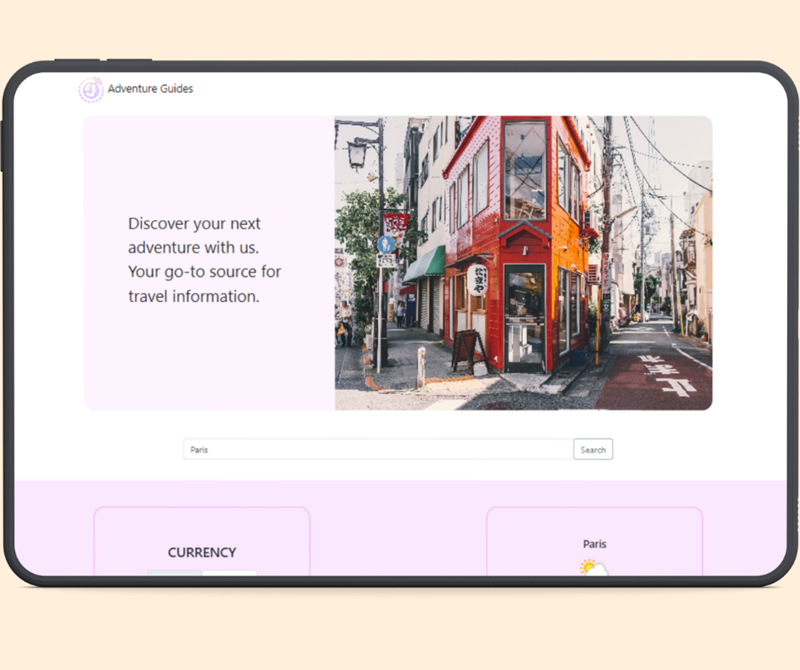
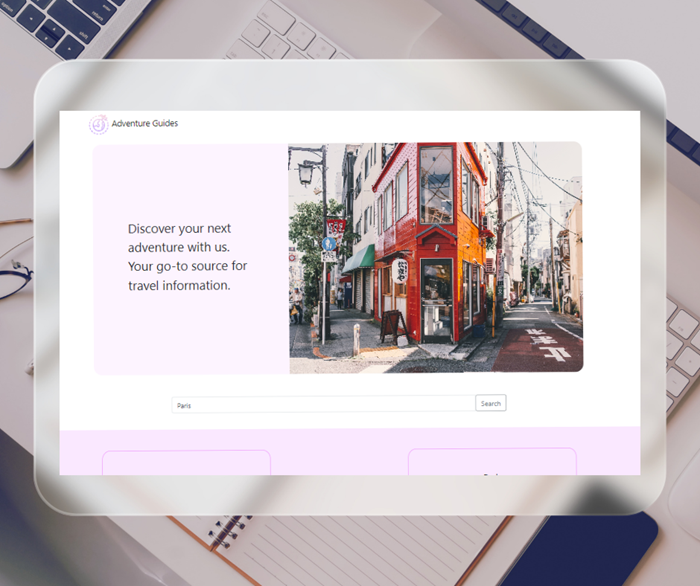
update third project

diff --git a/src/sections/ProjectsSection.jsx b/src/sections/ProjectsSection.jsx
@@ -71,7 +71,7 @@ const ProjectsSection = () => {
           {/* RIGHT */}
           <div className="project-list-wrapper">
             <div className="project" ref={project2Ref}>
-              <div className="image-wrapper bg-[#ffefdb]">
+              <div className="image-wrapper bg-[#ffefdb]/50">
                 <img src="/images/project2.png" alt="Adventure Guides" />
               </div>
               <h2 className="text-xl md:text-2xl lg:text-3xl">
@@ -80,10 +80,12 @@ const ProjectsSection = () => {
             </div>
 
             <div className="project" ref={project3Ref}>
-              <div className="image-wrapper bg-[#ffe7eb]">
+              <div className="image-wrapper bg-[#ffe7eb]/50">
                 <img src="/images/project3.png" alt="Coming soon" />
               </div>
-              <h2 className="text-xl md:text-2xl lg:text-3xl">Coming Soon</h2>
+              <h2 className="text-xl md:text-2xl lg:text-3xl">
+                AI Career Assistant — In Progress
+              </h2>
             </div>
           </div>
         </div>